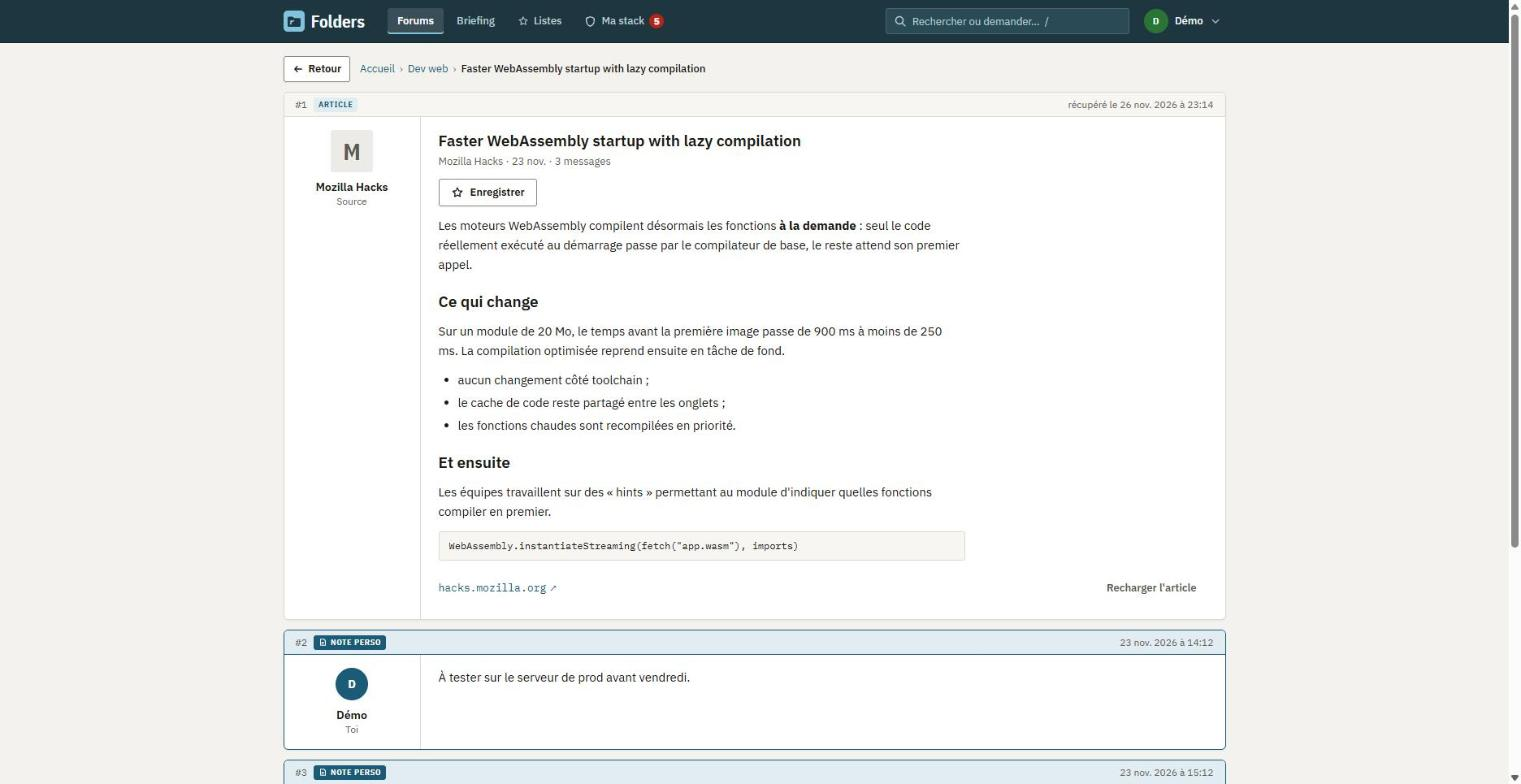
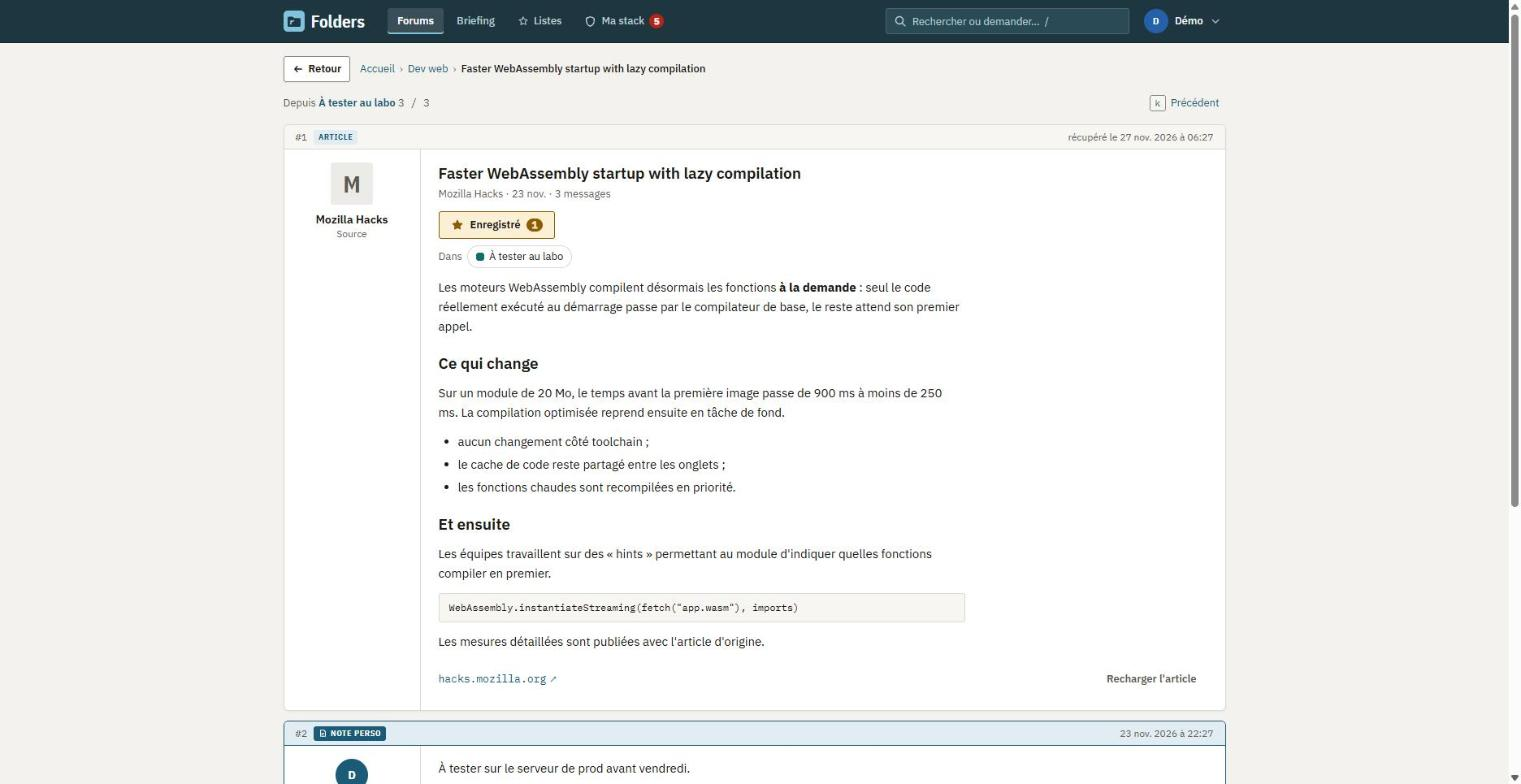
fix: Folders 3.5.1 — thème synchronisé, cache de la photo, réglages fins dans compose, démo (#69)
* docs: rewrite the README for 3.5.0, new screenshots, complete .env.example, update SPEC and CLAUDE.md

* fix: theme pickers in sync, long photo cache for the current version only, tuning variables in compose, demo article and list (3.5.1)

diff --git a/scripts/seed-demo.ts b/scripts/seed-demo.ts
@@ -9,8 +9,11 @@
  */
 import { eq, sql } from "drizzle-orm";
 import { closeDb, getDb } from "@/lib/db";
-import { forums, products, replies, sources, stackItems, stackStatus, topics, user, vulnerabilities, type AffectedRange } from "@/lib/db/schema";
+import { articleText } from "@/lib/ai/text";
+import { articleContents, forums, listItems, lists, products, replies, sources, stackItems, stackStatus, topics, user, vulnerabilities, type AffectedRange } from "@/lib/db/schema";
 import { normalizeUrl } from "@/lib/feeds/normalize-url";
+import { sanitizeArticleHtml } from "@/lib/reader/sanitize";
+import { ARTICLE_TEXT_MAX } from "@/lib/search/indexer";
 import { recomputeAlerts } from "@/lib/stack/alerts";
 import { syncCatalog } from "@/lib/stack/catalog";
 import type { FetchedVuln } from "@/lib/stack/sources/types";
@@ -46,6 +49,29 @@ const SOURCES: { forum: (typeof FORUMS)[number]["slug"]; name: string; url: stri
   { forum: "dev-web", name: "Mozilla Hacks", url: "https://hacks.mozilla.org/feed/" },
   { forum: "labo", name: "Simon Willison", url: "https://simonwillison.net/atom/everything/", enabled: false },
 ];
+
+/**
+ * One complete article, written for the demo (not copied from the source), so that the topic page shows the reader
+ * without network access: headings, a list, code. Stored as the worker stores a feed's full content.
+ */
+const DEMO_ARTICLE = {
+  title: "Faster WebAssembly startup with lazy compilation",
+  html: `<p>Les moteurs WebAssembly compilent désormais les fonctions <strong>à la demande</strong> : seul le code réellement exécuté au démarrage passe par le compilateur de base, le reste attend son premier appel.</p>
+<h2>Ce qui change</h2>
+<p>Sur un module de 20 Mo, le temps avant la première image passe de 900 ms à moins de 250 ms. La compilation optimisée reprend ensuite en tâche de fond.</p>
+<ul><li>aucun changement côté toolchain ;</li><li>le cache de code reste partagé entre les onglets ;</li><li>les fonctions chaudes sont recompilées en priorité.</li></ul>
+<h2>Et ensuite</h2>
+<p>Les équipes travaillent sur des « hints » permettant au module d'indiquer quelles fonctions compiler en premier.</p>
+<pre><code>WebAssembly.instantiateStreaming(fetch("app.wasm"), imports)</code></pre>
+<p>Les mesures détaillées sont publiées avec l'article d'origine.</p>`,
+};
+
+/** A list of favorites (★ Enregistrer), with topics of several forums. */
+const DEMO_LIST = {
+  name: "À tester au labo",
+  color: "teal" as const,
+  titles: ["Faster WebAssembly startup with lazy compilation", "Sidecar containers graduate to stable", "Vulnérabilité critique dans OpenSSH (exécution de code à distance)"],
+};
 
 const TITLES: Record<string, string[]> = {
   "CERT-FR": [
@@ -119,6 +145,7 @@ async function main() {
     .returning({ id: sources.id, name: sources.name, forumId: sources.forumId, url: sources.url });
 
   let i = 0;
+  const topicIds = new Map<string, { id: number; url: string }>();
   let topicCount = 0;
   let noteCount = 0;
   for (const src of sourceRows) {
@@ -145,6 +172,7 @@ async function main() {
         })
         .returning({ id: topics.id });
       if (!topic) throw new Error(`Topic non inséré : ${title}`);
+      topicIds.set(title, { id: topic.id, url });
       for (const [j, content] of notes.entries()) {
         await db.insert(replies).values({
           topicId: topic.id,
@@ -160,9 +188,23 @@ async function main() {
     }
   }
 
+  const article = topicIds.get(DEMO_ARTICLE.title);
+  if (!article) throw new Error(`Topic de l'article de démo introuvable : ${DEMO_ARTICLE.title}`);
+  const html = sanitizeArticleHtml(DEMO_ARTICLE.html, article.url);
+  const fetchedAt = ago(1);
+  await db.insert(articleContents).values({ topicId: article.id, html, source: "feed", fetchedAt, text: articleText(html).slice(0, ARTICLE_TEXT_MAX), textOf: fetchedAt });
+
+  const [list] = await db.insert(lists).values({ name: DEMO_LIST.name, color: DEMO_LIST.color, position: 0 }).returning({ id: lists.id });
+  if (!list) throw new Error("Liste de démo non insérée");
+  for (const [k, title] of DEMO_LIST.titles.entries()) {
+    const t = topicIds.get(title);
+    if (!t) throw new Error(`Topic de la liste de démo introuvable : ${title}`);
+    await db.insert(listItems).values({ listId: list.id, topicId: t.id, addedAt: ago(3 - k) });
+  }
+
   const stack = await seedStack();
   console.log(
-    `Base de démo prête : ${stack} logiciels fictifs dans Ma stack, ${forumRows.length} forums, ${sourceRows.length} sources, ${topicCount} topics, ${noteCount} notes.`,
+    `Base de démo prête : ${stack} logiciels fictifs dans Ma stack, ${forumRows.length} forums, ${sourceRows.length} sources, ${topicCount} topics (dont 1 article complet), ${noteCount} notes, 1 liste.`,
   );
   console.log(`Connexion : ${DEMO_EMAIL} / ${DEMO_PASSWORD}`);
 }

diff --git a/tests/compose-env.test.ts b/tests/compose-env.test.ts
@@ -1,0 +1,66 @@
+/**
+ * docker-compose.yml passes the tuning variables with the code's own defaults (`${VAR:-default}`): an empty or absent
+ * value in the .env must change nothing. Also checks that .env.example documents every variable compose passes.
+ */
+import { readFileSync } from "node:fs";
+import { describe, expect, it, vi } from "vitest";
+import { ASK_SEMANTIC_MIN } from "@/lib/ask/retrieve";
+import { DEFAULT_POOL_SIZE, poolSize } from "@/lib/db";
+import { DEFAULT_MERGE_THRESHOLD, MERGE_WINDOW_MS, mergeThreshold, mergeWindowMs, RELATED_MIN } from "@/lib/merge/fusion";
+import { DEFAULT_EMBED_PER_CYCLE, embedPerCycle } from "@/lib/search/indexer";
+import { SEMANTIC_MIN } from "@/lib/search/query";
+
+vi.mock("server-only", () => ({}));
+
+const compose = readFileSync("docker-compose.yml", "utf8");
+const example = readFileSync(".env.example", "utf8");
+
+/** `NAME: ${NAME:-default}` in compose → default (undefined when the line is missing). */
+function composeDefault(name: string): string | undefined {
+  const m = new RegExp(`^\\s+${name}: \\$\\{${name}:-([^}]*)\\}\\s*$`, "m").exec(compose);
+  return m?.[1];
+}
+
+const TUNING: Record<string, number> = {
+  DATABASE_POOL_SIZE: DEFAULT_POOL_SIZE,
+  EMBED_PER_CYCLE: DEFAULT_EMBED_PER_CYCLE,
+  MERGE_THRESHOLD: DEFAULT_MERGE_THRESHOLD,
+  MERGE_WINDOW_HOURS: MERGE_WINDOW_MS / 3_600_000,
+  SEARCH_SEMANTIC_MIN: SEMANTIC_MIN,
+  ASK_SEMANTIC_MIN,
+  RELATED_MIN,
+};
+
+describe("tuning variables in docker-compose.yml", () => {
+  it.each(Object.entries(TUNING))("%s is passed with the code's default (%s)", (name, value) => {
+    const d = composeDefault(name);
+    expect(d, `${name} missing from docker-compose.yml`).toBeDefined();
+    expect(Number(d)).toBe(value);
+  });
+
+  it("documents each of them in .env.example", () => {
+    for (const name of Object.keys(TUNING)) expect(example).toMatch(new RegExp(`^${name}=`, "m"));
+  });
+
+  it("an empty value falls back to the default", () => {
+    const empty = Object.fromEntries(Object.keys(TUNING).map((k) => [k, ""]));
+    expect(poolSize(empty)).toBe(DEFAULT_POOL_SIZE);
+    expect(embedPerCycle(empty)).toBe(DEFAULT_EMBED_PER_CYCLE);
+    expect(mergeThreshold(empty)).toBe(DEFAULT_MERGE_THRESHOLD);
+    expect(mergeWindowMs(empty)).toBe(MERGE_WINDOW_MS);
+  });
+
+  it("the pool size refuses 0, negatives and junk", () => {
+    for (const v of ["0", "-3", "1.5", "abc", " "]) expect(poolSize({ DATABASE_POOL_SIZE: v })).toBe(DEFAULT_POOL_SIZE);
+    expect(poolSize({ DATABASE_POOL_SIZE: "1" })).toBe(1);
+    expect(poolSize({})).toBe(DEFAULT_POOL_SIZE);
+  });
+});
+
+describe(".env.example", () => {
+  it("lists every variable docker-compose.yml reads from the .env", () => {
+    const names = new Set([...compose.matchAll(/\$\{([A-Z][A-Z0-9_]*)(?::[-?][^}]*)?\}/g)].map((m) => m[1]!));
+    const missing = [...names].filter((n) => !new RegExp(`^${n}=`, "m").test(example));
+    expect(missing).toEqual([]);
+  });
+});

diff --git a/components/account/theme-picker.tsx b/components/account/theme-picker.tsx
@@ -1,7 +1,7 @@
 "use client";
 
 import { useState, useSyncExternalStore, useTransition } from "react";
-import { applyTheme } from "@/components/theme/theme-sync";
+import { applyTheme, useThemePreference } from "@/components/theme/theme-sync";
 import { IconCheck } from "@/components/ui/icons";
 import { SavedHint, useSave } from "@/components/settings/saved";
 import { setTheme } from "@/lib/actions/account";
@@ -76,7 +76,8 @@ function hint(value: ThemePreference, systemDark: boolean | null): string {
  * account by the setTheme action. No « Enregistrer » button.
  */
 export function ThemePicker({ initial }: { initial: ThemePreference }) {
-  const [value, setValue] = useState(initial);
+  // <html data-theme>: also follows a change made from the account menu while this page is open.
+  const value = useThemePreference(initial);
   const [error, setError] = useState(false);
   const [, startTransition] = useTransition();
   const systemDark = useSystemDark();
@@ -84,13 +85,11 @@ export function ThemePicker({ initial }: { initial: ThemePreference }) {
   const { state: savedState, save } = useSave();
   function choose(next: ThemePreference) {
     const previous = value;
-    setValue(next);
     setError(false);
     applyTheme(next);
     startTransition(async () => {
       const ok = await save(async () => ((await setTheme(next).catch(() => ({ ok: false }))).ok ? { ok: true } : { ok: false, error: "Thème non enregistré : réessaie." }));
       if (ok) return;
-      setValue(previous);
       applyTheme(previous);
       setError(true);
     });

diff --git a/components/layout/account-menu.tsx b/components/layout/account-menu.tsx
@@ -3,7 +3,7 @@
 import { useRouter } from "next/navigation";
 import { useEffect, useId, useRef, useState, useTransition } from "react";
 import { UserAvatar, type AvatarUser } from "@/components/account/user-avatar";
-import { applyTheme } from "@/components/theme/theme-sync";
+import { applyTheme, useThemePreference } from "@/components/theme/theme-sync";
 import { IconCheck, IconChevronDown, IconLogout } from "@/components/ui/icons";
 import { setTheme } from "@/lib/actions/account";
 import { authClient } from "@/lib/auth-client";
@@ -31,7 +31,8 @@ const ITEM =
 export function AccountMenu({ user }: { user: MenuUser }) {
   const router = useRouter();
   const [open, setOpen] = useState(false);
-  const [theme, setThemeState] = useState(user.theme);
+  // <html data-theme>: also follows a change made in Paramètres › Apparence.
+  const theme = useThemePreference(user.theme);
   const [, start] = useTransition();
   const buttonRef = useRef<HTMLButtonElement>(null);
   const menuRef = useRef<HTMLDivElement>(null);
@@ -56,12 +57,10 @@ export function AccountMenu({ user }: { user: MenuUser }) {
 
   const chooseTheme = (next: ThemePreference) => {
     const previous = theme;
-    setThemeState(next);
     applyTheme(next);
     start(async () => {
       const saved = await setTheme(next).catch(() => ({ ok: false }));
       if (!saved.ok) {
-        setThemeState(previous);
         applyTheme(previous);
       }
     });

diff --git a/app/api/profil/photo/route.ts b/app/api/profil/photo/route.ts
@@ -2,7 +2,7 @@ import { eq } from "drizzle-orm";
 import { getAuth } from "@/lib/auth";
 import { getDb } from "@/lib/db";
 import { userPhotos } from "@/lib/db/schema";
-import { checkPhoto, PHOTO_MAX_BYTES } from "@/lib/photo";
+import { checkPhoto, PHOTO_MAX_BYTES, photoCacheControl } from "@/lib/photo";
 
 export const dynamic = "force-dynamic";
 
@@ -34,7 +34,8 @@ const HEADERS = {
 export async function GET(request: Request) {
   const userId = await me(request);
   if (!userId) return new Response(null, { status: 401 });
-  const size = new URL(request.url).searchParams.get("taille") === "512" ? "large" : "small";
+  const params = new URL(request.url).searchParams;
+  const size = params.get("taille") === "512" ? "large" : "small";
   const [row] = await getDb().select().from(userPhotos).where(eq(userPhotos.userId, userId));
   if (!row) return new Response(null, { status: 404, headers: { ...HEADERS, "Cache-Control": "private, no-store" } });
   const body = size === "large" ? row.large : row.small;
@@ -47,8 +48,7 @@ export async function GET(request: Request) {
       ...HEADERS,
       "Content-Type": row.mime,
       "Content-Length": String(body.length),
-      // A new picture gets a new URL (?v=updatedAt): cached in this browser only, for long.
-      "Cache-Control": "private, max-age=31536000, immutable",
+      "Cache-Control": photoCacheControl(params.get("v"), row.updatedAt),
     },
   });
 }

diff --git a/tests/photo.test.ts b/tests/photo.test.ts
@@ -132,6 +132,19 @@ describe("route /api/profil/photo", () => {
     expect(new Uint8Array(await kept.arrayBuffer())).toEqual(jpeg(512, 512));
   });
 
+  it("a long cache only for the URL of the current picture; a new picture gets a new URL", async () => {
+    const v1 = ((await (await post({ large: jpeg(512, 512), small: jpeg(64, 64) })).json()) as { version: number }).version;
+    const at = (v: string) => route.GET(new Request(`${ORIGIN}/api/profil/photo?taille=64${v}`));
+    expect((await at(`&v=${v1}`)).headers.get("cache-control")).toBe("private, max-age=31536000, immutable");
+    expect((await at("")).headers.get("cache-control")).toBe("private, no-cache");
+    await new Promise((r) => setTimeout(r, 5));
+    const v2 = ((await (await post({ large: jpeg(512, 512), small: jpeg(64, 64) })).json()) as { version: number }).version;
+    expect(v2).toBeGreaterThan(v1);
+    // The old URL now names another picture: never cached for long again.
+    expect((await at(`&v=${v1}`)).headers.get("cache-control")).toBe("private, no-cache");
+    expect((await at(`&v=${v2}`)).headers.get("cache-control")).toContain("immutable");
+  });
+
   it("deleted (same origin only)", async () => {
     await post({ large: jpeg(512, 512), small: jpeg(64, 64) });
     expect((await route.DELETE(new Request(`${ORIGIN}/api/profil/photo`, { method: "DELETE", headers: { "sec-fetch-site": "cross-site" } }))).status).toBe(403);

diff --git a/components/theme/theme-sync.tsx b/components/theme/theme-sync.tsx
@@ -1,7 +1,30 @@
 "use client";
 
-import { useEffect } from "react";
+import { useEffect, useSyncExternalStore } from "react";
 import { isThemePreference, THEME_COOKIE, THEME_COOKIE_MAX_AGE, type ThemePreference } from "@/lib/theme";
+
+function subscribeTheme(onChange: () => void) {
+  const observer = new MutationObserver(onChange);
+  observer.observe(document.documentElement, { attributes: true, attributeFilter: ["data-theme"] });
+  return () => observer.disconnect();
+}
+
+/**
+ * The theme in use on this page: <html data-theme>, which every change goes through (applyTheme: the account menu,
+ * Paramètres › Apparence, another device via AccountThemeSync). Each picker reads it here instead of keeping its own
+ * copy, so a change made in one shows at once in the other, without reloading. `serverValue`: the account's
+ * preference, for the server render and the hydration.
+ */
+export function useThemePreference(serverValue: ThemePreference): ThemePreference {
+  return useSyncExternalStore(
+    subscribeTheme,
+    () => {
+      const t = document.documentElement.dataset.theme;
+      return isThemePreference(t) ? t : serverValue;
+    },
+    () => serverValue,
+  );
+}
 
 /** Switches the page's theme at once (before the server has saved it). */
 export function applyTheme(theme: string): void {

diff --git a/tests/theme-pickers-sync.test.ts b/tests/theme-pickers-sync.test.ts
@@ -1,0 +1,25 @@
+/**
+ * The two theme pickers (account menu, Paramètres › Apparence) read the theme from <html data-theme> through
+ * useThemePreference instead of keeping their own copy: a change made in one shows at once in the other, without
+ * reloading (3.5.1). Checked in the source (no DOM in these tests), like tests/topic-links-prefetch.test.ts.
+ */
+import { readFileSync } from "node:fs";
+import { describe, expect, it } from "vitest";
+
+const PICKERS = ["components/layout/account-menu.tsx", "components/account/theme-picker.tsx"];
+
+describe("theme pickers stay in sync", () => {
+  it.each(PICKERS)("%s reads the theme from useThemePreference and keeps no copy of its own", (file) => {
+    const src = readFileSync(file, "utf8");
+    expect(src).toMatch(/=\s*useThemePreference\(/);
+    // No useState holding the theme (it would go stale when the other picker changes it).
+    expect(src).not.toMatch(/useState\((initial|user\.theme)\)/);
+    expect(src).not.toMatch(/setThemeState|setValue\(/);
+  });
+
+  it("useThemePreference follows the data-theme attribute of <html>", () => {
+    const src = readFileSync("components/theme/theme-sync.tsx", "utf8");
+    expect(src).toMatch(/useSyncExternalStore\(/);
+    expect(src).toMatch(/attributeFilter:\s*\["data-theme"\]/);
+  });
+});

diff --git a/lib/db/index.ts b/lib/db/index.ts
@@ -14,12 +14,21 @@ const globalForDb = globalThis as unknown as { veillePg?: PgClient };
 let instance: ReturnType<typeof drizzle<typeof schema>> | undefined;
 let client: PgClient | undefined;
 
+/** Connections of the app (or the worker) to PostgreSQL. DATABASE_POOL_SIZE overrides it (1 with pglite-server). */
+export const DEFAULT_POOL_SIZE = 10;
+
+/** A positive integer, else the default: an empty value (docker-compose, .env) changes nothing. */
+export function poolSize(env: Partial<Record<string, string | undefined>> = process.env): number {
+  const n = Number(env.DATABASE_POOL_SIZE?.trim() || NaN);
+  return Number.isInteger(n) && n >= 1 ? n : DEFAULT_POOL_SIZE;
+}
+
 /** Lazily created so that importing this module (e.g. during `next build`) never needs a DB. */
 export function getDb() {
   if (!instance) {
     const url = process.env.DATABASE_URL;
     if (!url) throw new Error("DATABASE_URL is not set");
-    client = globalForDb.veillePg ?? postgres(url, { max: Number(process.env.DATABASE_POOL_SIZE ?? 10), onnotice: () => {} });
+    client = globalForDb.veillePg ?? postgres(url, { max: poolSize(), onnotice: () => {} });
     if (process.env.NODE_ENV !== "production") globalForDb.veillePg = client;
     instance = drizzle(client, { schema });
   }

diff --git a/worker/index.ts b/worker/index.ts
@@ -14,7 +14,7 @@ import { closeDb, getDb } from "@/lib/db";
 import { dispatchNotifications } from "@/lib/push/notify";
 import { checkIfDue, CHECK_INTERVAL_MIN } from "@/lib/stack/sync";
 import { mergePending } from "@/lib/merge/fusion";
-import { indexPending, refreshArticleTexts } from "@/lib/search/indexer";
+import { embedPerCycle, indexPending, refreshArticleTexts } from "@/lib/search/indexer";
 import { recordCycle } from "@/lib/worker/heartbeat";
 import { runCycle } from "@/lib/worker/run-cycle";
 
@@ -81,7 +81,7 @@ async function searchIndex() {
     // The morning briefing first (docs/design/3.4): no embeddings while it is due or being written.
     if (await briefingBusy(getDb())) log("[index] en pause : briefing du matin en cours ou imminent");
     else {
-      const r = await indexPending(getDb(), { ai: aiConfig(env), env, log, budget: Math.max(1, Number(process.env.EMBED_PER_CYCLE) || 200) });
+      const r = await indexPending(getDb(), { ai: aiConfig(env), env, log, budget: embedPerCycle() });
       if (r.indexed) log(`[index] ${r.indexed} article(s) indexé(s)`);
     }
     // Fusion of duplicates (docs/design/3.3 § 2): the new articles just indexed, against the last 72 hours.

diff --git a/lib/photo.ts b/lib/photo.ts
@@ -119,3 +119,12 @@ export function sourceKind(head: Uint8Array): "jpeg" | "png" | "webp" | "heic" |
 
 /** « 12,4 Mo » */
 export const megabytes = (n: number) => `${(n / (1024 * 1024)).toLocaleString("fr-FR", { maximumFractionDigits: 1 })} Mo`;
+
+/**
+ * A new picture gets a new URL (?v=updatedAt in ms, components/account/user-avatar.tsx): that exact URL is cached in this
+ * browser only, for a year. Any other `v` (a page rendered before a change, or none) is revalidated every time, so the
+ * current picture never sticks under a URL that may name another one.
+ */
+export function photoCacheControl(v: string | null, updatedAt: Date): string {
+  return v === String(updatedAt.getTime()) ? "private, max-age=31536000, immutable" : "private, no-cache";
+}

diff --git a/lib/search/indexer.ts b/lib/search/indexer.ts
@@ -17,6 +17,12 @@ import { encodeVector } from "./vectors";
 
 type Env = Partial<Record<string, string | undefined>>;
 export const ARTICLE_TEXT_MAX = 20_000;
+/** Articles indexed at most per worker cycle (EMBED_PER_CYCLE overrides it). */
+export const DEFAULT_EMBED_PER_CYCLE = 200;
+
+export function embedPerCycle(env: Partial<Record<string, string | undefined>> = process.env): number {
+  return Math.max(1, Number(env.EMBED_PER_CYCLE) || DEFAULT_EMBED_PER_CYCLE);
+}
 
 /** Plain text of the articles stored or reloaded since their last pass. Returns how many were done. */
 export async function refreshArticleTexts(db: Db, limit = 200): Promise<number> {
